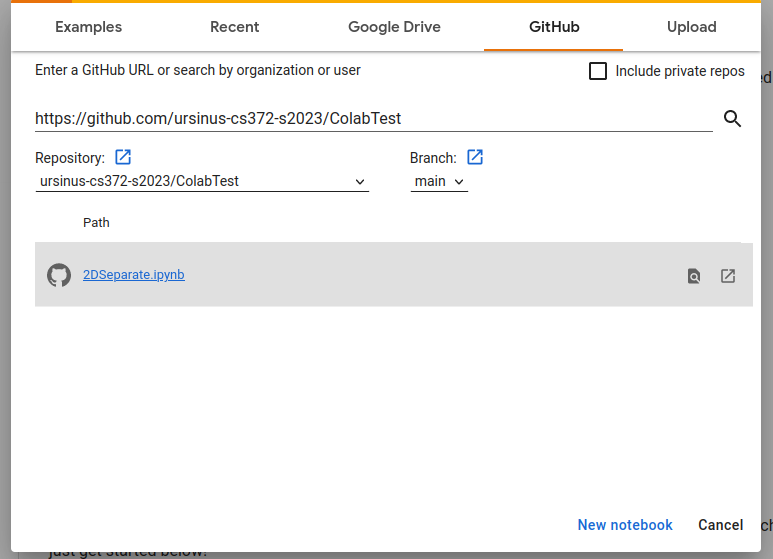
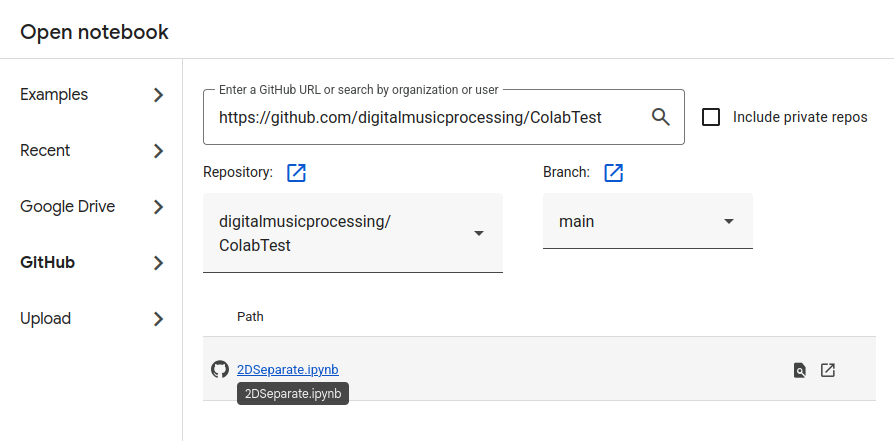
Updating module 20

diff --git a/_pages/Module20/Exercise1.md b/_pages/Module20/Exercise1.md
@@ -1,9 +1,10 @@
 ---
-layout: exercise_pyodide
+layout: exercise
+language: "pyodide"
 permalink: "Module20/Exercise1"
 title: "CS 372: Module 20: Grid Search"
 excerpt: "CS 372: Module 20: Grid Search"
-canvasasmtid: "173603"
+canvasasmtid: "219627"
 canvaspoints: "1.5"
 canvashalftries: 5
 
@@ -25,20 +26,18 @@ processor:
     let ref = 0.5375;
     let tol = 0.1
   correctcheck: |
-    Math.abs(pyodide.globals.res - ref) < tol
+    Math.abs(pyodide.globals.get("res") - ref) < tol
   incorrectchecks:
     - incorrectcheck: |
-        pyodide.globals.res == 0
+        pyodide.globals.get("res") == 0
       feedback: "Try again.  It looks like you're still returning c=0, but you need to find the c that minimizes the loss function" 
 
 files:
 
-  - filename: "Student Code"
-    name: driver
+  - filename: "student.py"
     ismain: false
     isreadonly: false
     isvisible: true
-    height: 400
     code: | 
         import numpy as np
 
@@ -49,19 +48,20 @@ files:
             return np.sum((Y - f(X))**2)
 
         def grid_search(X, Y):
+            ## Step 1: Compute the squared loss for each c on a grid
             cs = np.linspace(-3, 3, 1000)
             losses = np.zeros_like(cs)
             for i in range(len(cs)):
                 c = cs[i]
                 f = lambda x: fc(c=c, x=X)
                 losses[i] = loss_squared(X, Y, f)
-            ## TODO: Return the c that minimizes the squared loss
-
+            ## TODO Step 2: Return the c that minimizes the squared loss
+            
             return 0 # TODO: This is a dummy
 
 
 
-  - filename: "Test Code Block"
+  - filename: "main.py"
     ismain: true
     name: main
     isreadonly: true
@@ -79,4 +79,5 @@ files:
 
         
         
+openFilesOnLoad: ["main.py", "student.py"]
 ---

diff --git a/_pages/Module20/Exercise5.md b/_pages/Module20/Exercise5.md
@@ -1,9 +1,10 @@
 ---
-layout: exercise_pyodide
+layout: exercise
+language: "pyodide"
 permalink: "Module20/Exercise5"
 title: "CS 372: Module 20: Dataset Indexing"
 excerpt: "CS 372: Module 20: Dataset Indexing"
-canvasasmtid: "173763"
+canvasasmtid: "219626"
 canvaspoints: "1.5"
 canvashalftries: 5
 
@@ -24,23 +25,21 @@ processor:
   feedbackprocess: | 
     
   correctcheck: |
-    pyodide.globals.out == ".1.4.9.16.25.36.49.64.81.100."
+    pyodide.globals.get("out") == ".1.4.9.16.25.36.49.64.81.100."
   incorrectchecks:
     - incorrectcheck: |
-        pyodide.globals.out == "."
+        pyodide.globals.get("out") == "."
       feedback: "Try again.  It looks like you might not be returning the correct length.  Try returning <code>self.N</code>" 
     - incorrectcheck: |
-        pyodide.globals.out == ".0.1.4.9.16.25.36.49.64.81." 
+        pyodide.globals.get("out") == ".0.1.4.9.16.25.36.49.64.81." 
       feedback: "Try again.  You're very close!  Just be sure that the element at index 0 is 1, not 0." 
 
 files:
 
-  - filename: "Student Code"
-    name: driver
+  - filename: "student.py"
     ismain: false
     isreadonly: false
     isvisible: true
-    height: 400
     code: | 
         import numpy as np
 
@@ -58,7 +57,7 @@ files:
 
 
 
-  - filename: "Test Code Block"
+  - filename: "test.py"
     ismain: true
     name: main
     isreadonly: true
@@ -72,4 +71,5 @@ files:
 
         
         
+openFilesOnLoad: ["main.py", "student.py"]
 ---

diff --git a/_pages/Module20/Exercise3.md b/_pages/Module20/Exercise3.md
@@ -11,11 +11,11 @@ info:
 ---
 
 <p>
-Sign up for a google account if you don't have one, then go to <a href = "https://colab.research.google.com/">https://colab.research.google.com/</a> and sign in with your account.  Then, select the "GitHub" tab and paste in the url <a href = "https://github.com/ursinus-cs372-s2023/ColabTest">https://github.com/ursinus-cs372-s2023/ColabTest</a>, and select the notebook <code>2DSeparate.ipynb</code>
+Sign up for a google account if you don't have one, then go to <a href = "https://colab.research.google.com/">https://colab.research.google.com/</a> and sign in with your account.  Then, select the "GitHub" tab and paste in the url <a href = "https://github.com/digitalmusicprocessing/ColabTest">https://github.com/digitalmusicprocessing/ColabTest</a>, and select the notebook <code>2DSeparate.ipynb</code>
 </p>
 
 <img src = "../images/Module20/ColabTest.png">
 
 <p>
-Then, run all of the cells, and type what you see at the bottom at <a href = "https://ursinus.instructure.com/courses/15546/assignments/173607">this canvas link</a>
+Then, run all of the cells, and type what you see at the bottom at <a href = "https://ursinus.instructure.com/courses/19292/assignments/219609">this canvas link</a>
 </p>

diff --git a/_pages/Module20/Video2.md b/_pages/Module20/Video2.md
@@ -11,7 +11,7 @@ info:
 ---
 
 <p>
-Watch the two videos below, then complete the exercise at <a href = "https://ursinus.instructure.com/courses/15546/quizzes/22291">this link</a> on canvas.  When you're finished, click the <code>Next</code> button to continue.
+Watch the two videos below, then complete the exercise at <a href = "https://ursinus.instructure.com/courses/19292/quizzes/28305">this link</a> on canvas.  When you're finished, click the <code>Next</code> button to continue.
 </p>
 
 <iframe width="560" height="315" src="https://www.youtube.com/embed/MPslRSuJeXQ" title="YouTube video player" frameborder="0" allow="accelerometer; autoplay; clipboard-write; encrypted-media; gyroscope; picture-in-picture; web-share" allowfullscreen></iframe>

diff --git a/_pages/Module20/Video3.md b/_pages/Module20/Video3.md
@@ -11,7 +11,7 @@ info:
 ---
 
 <p>
-Watch the two videos below, then complete the exercise at <a href = "https://ursinus.instructure.com/courses/15546/quizzes/22307">this link</a> on canvas.  When you're finished, click the <code>Next</code> button to continue.
+Watch the two videos below, then complete the exercise at <a href = "https://ursinus.instructure.com/courses/19292/quizzes/28298">this link</a> on canvas.  When you're finished, click the <code>Next</code> button to continue.
 </p>
 
 <iframe width="560" height="315" src="https://www.youtube.com/embed/EAyjKhPR0FI" title="YouTube video player" frameborder="0" allow="accelerometer; autoplay; clipboard-write; encrypted-media; gyroscope; picture-in-picture; web-share" allowfullscreen></iframe>

diff --git a/_pages/Module20/Video5.md b/_pages/Module20/Video5.md
@@ -10,7 +10,7 @@ info:
 ---
 
 <p>
-Watch the the video below.  When you are finished, <a href = "https://ursinus.instructure.com/courses/15546/quizzes/22308">Click here</a> to complete a brief exercise on canvas, and then that's it for this module!
+Watch the the video below.  When you are finished, <a href = "https://ursinus.instructure.com/courses/19292/quizzes/28299">Click here</a> to complete a brief exercise on canvas, and then that's it for this module!
 </p>
 
 <iframe width="560" height="315" src="https://www.youtube.com/embed/alnCGGtFzWQ" title="YouTube video player" frameborder="0" allow="accelerometer; autoplay; clipboard-write; encrypted-media; gyroscope; picture-in-picture; web-share" allowfullscreen></iframe>
